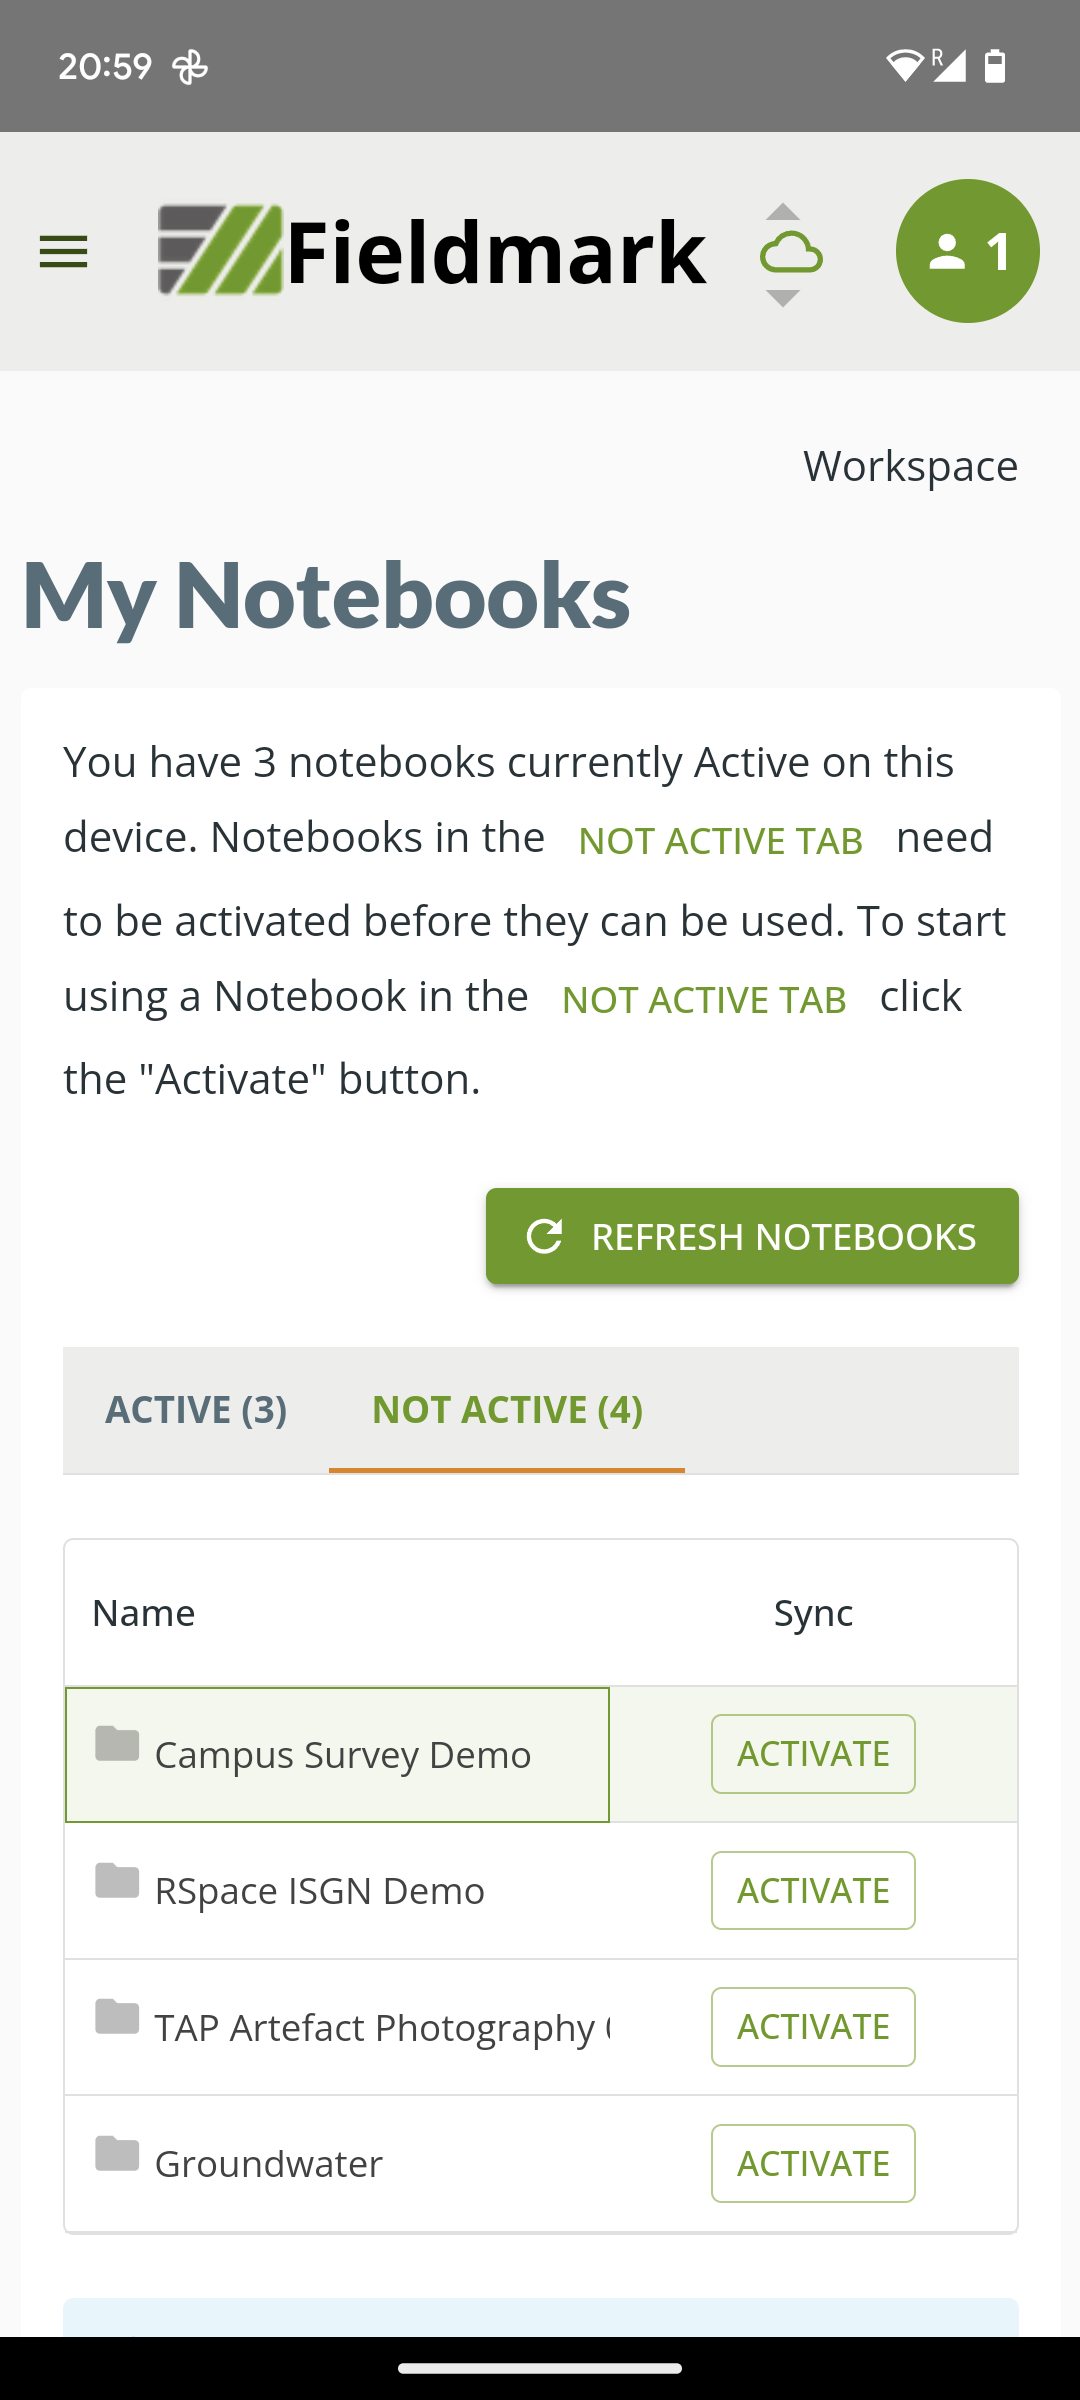
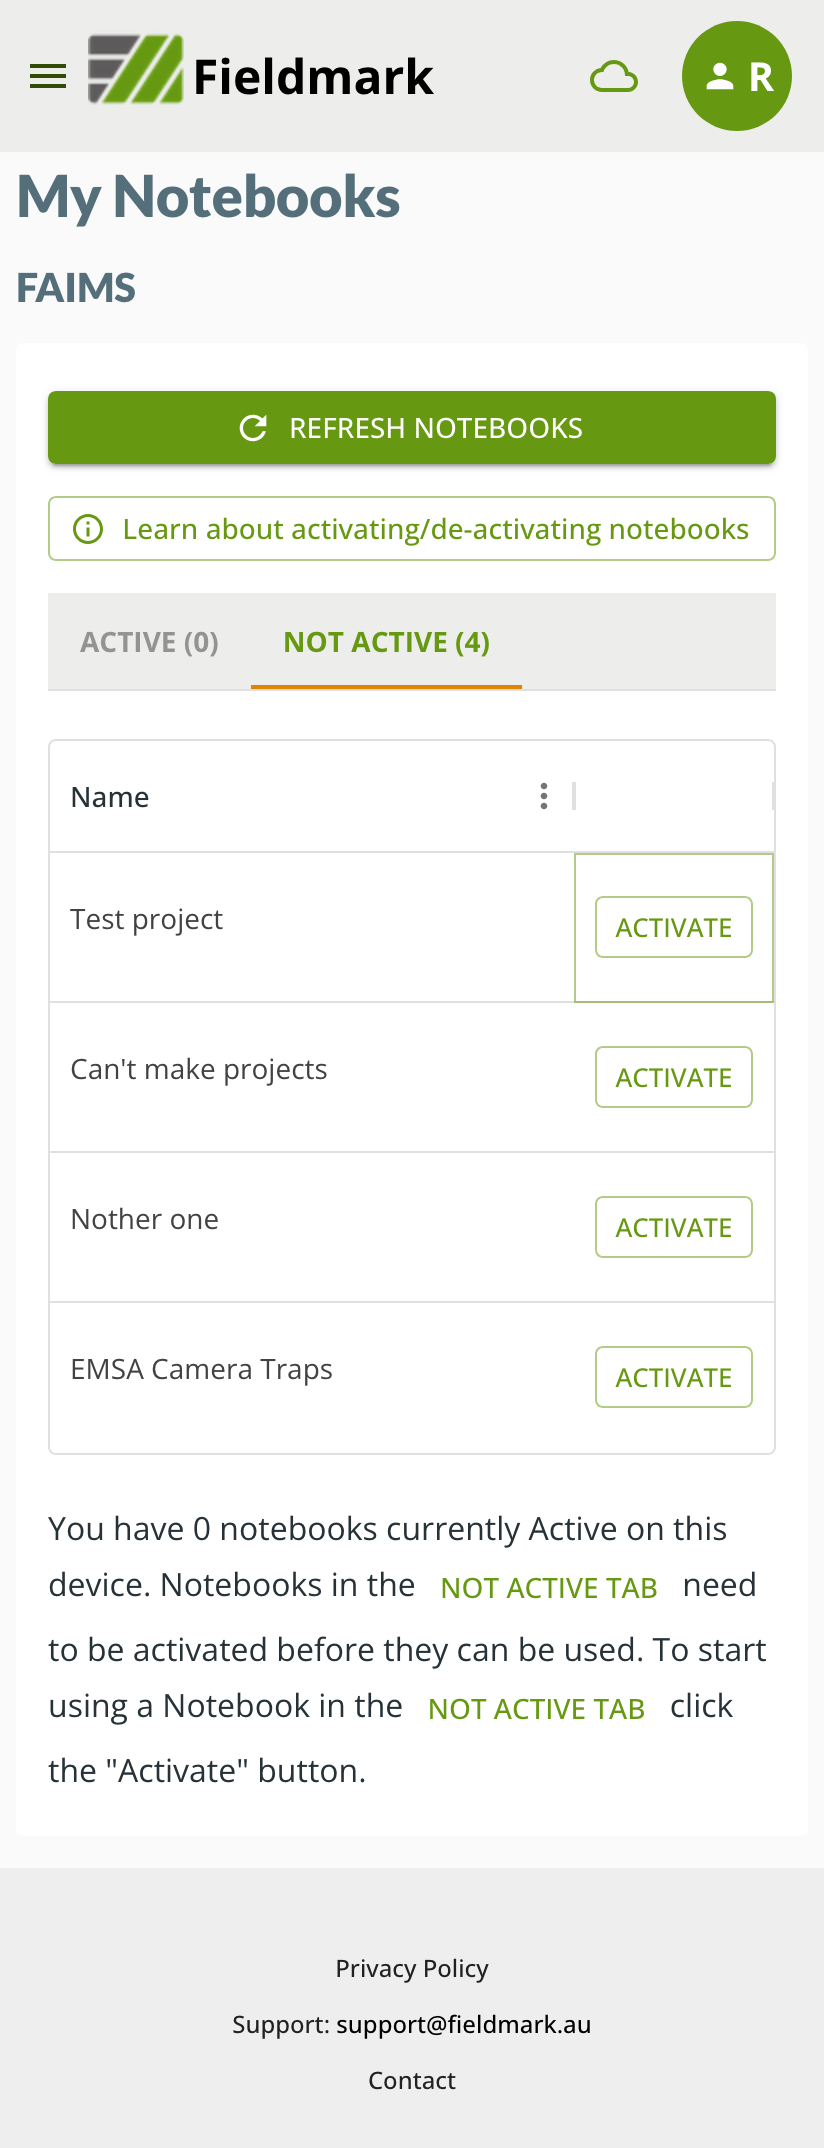
some updates to notebook usage docs updating screenshots

diff --git a/docs/user/data-collection/using-notebooks.md b/docs/user/data-collection/using-notebooks.md
@@ -19,13 +19,13 @@ The first page you see when you enter a notebook is the **Record List** screen.
 
 At the top of the page you will see buttons marked with a **+** sign that allow you to add new records of a given type: in this case it is **+ ADD NEW MAIN** since the form is called _Main_.
 
-````{note} 
+````{note}
 A notebook can contain many forms and there can be one or more of these _Add New_ buttons configured.  
 ````
 
 Below these you will see the **REFRESH RECORDS** button, this will force an update of the displayed list of records.
 
-````{note} 
+````{note}
 The list will update itself from time to time but sometimes it's useful to force a refresh
 ````
 
@@ -52,7 +52,7 @@ To create a new record from the **Record List**, tap or click the **+ ADD NEW MA
 
 When you create a new record or edit an existing one, you will see a form similar to the screenshot shown here where you can enter your data:
 
-```{screenshot} getting-started/record-form-mobile.png
+```{screenshot} getting-started/record-form-create.png
 :alt: Editing a {{Notebook}} record
 :align: left
 ```
@@ -60,13 +60,6 @@ When you create a new record or edit an existing one, you will see a form simila
 ````{note}
 The details of the form will depend on the configuration of the {{notebook}} you are using.
 ````
-
-There are usually two tabs in a record form:
-
-- **DATA** is where you will enter data, and
-- **INFO** provides some information about the record such as the name of the person who created it and the creation time.
-
-There is a third tab that can appear if there are conflicts between versions of this record (see [Conflict Resolutions](../todo.md)).
 
 How you fill our the form will vary will depend on the configuration of the {{notebook}} you are using.
 
@@ -76,14 +69,14 @@ There will usually be a short help text along with each field and in some cases,
 
 ## Parts of a Form
 
-The form you are filling may have more than one _section_, as shown in the screenshot here where it is showing section 1 of 2 sections.  You can navigate between sections using the 'Next' and 'Back' links.
+The form you are filling may have more than one _section_, as shown in the screenshot above where it is showing section 1 of 3 sections.  You can navigate between sections using the 'Next' and 'Back' links.
 
 ```{screenshot} getting-started/record-form-finish-buttons-mobile.png
 :alt: Finishing a {{Notebook}} record
 :align: right
 ```
 
-As you complete the form and scroll to the end of the section, you will see the 'Finish' buttons as shown in this screenshot.   Above this, you may see a warning as shown here if there are errors in the form - generally if you have missed entering some data.
+As you complete the form and scroll to the end of the section, you will see the 'Finish' button as shown in this screenshot.   Above this, you may see a warning as shown here if there are errors in the form - generally if you have missed entering some data.
 
 The error message should include a link that will scroll to the field that is missing.
 
@@ -91,13 +84,8 @@ If the error is in a different section of the form, it will link you to that sec
 
 If the form has errors, you are still able to finish your edits, all of the data that you have entered will be saved and you can come back later to fix the errors.
 
-The three buttons at the bottom of the form allow you to finalise the record you are creating or the edits you've made.
-
-The 'Finish and Close ...' button will finalise all of your changes and update the saved record. It will then return you to either the main record list or the parent record if this is a child record (see [Related Records](../field-types/relationship-fields/related-records.md)).
-
-The 'Finish and New ...' button will finalise the current record and start a new one of the same type. This is useful if you are entering a series of observations.
-
-The 'Cancel' button will cancel the current changes and return you to the record list or the parent record.  It will first check that you are sure that you want to lose the changes you have made.
+If you scroll to the top of the screen on any section you will also see a 'Finish' button.  Your data
+is saved as you enter it, the Finish buttons will return you to the record list.
 
 ## Annotations and Uncertainty
 

diff --git a/docs/user/data-collection/getting-started-data-collection.md b/docs/user/data-collection/getting-started-data-collection.md
@@ -28,14 +28,20 @@ When you open up the app for the first time you will see the **login** screen as
 :align: right
 ```
 
-From here you can login if you already have an account, or refer to your {{Notebook}} invitation and:
+Depending on the version of {{FAIMS}} that you are using, you may see the server selection option
+at the top of the screen or your server might be pre-configured.
+Server selection is used to connect the app to one of a number of {{FAIMS}} servers; you might see
+the main server and one or more enterprise servers.  Select the server for your organisation if
+that is configured.
+
+From here you can login if you already have an account, or refer to your {{notebook}} invitation and:
 
 - enter an **access code**, or
 - scan a **QR code**
 
 to **register** an account and get access to that {{Notebook}}.
 
-````{note} 
+````{note}
 If you already have an account on the {{FAIMS}} server, use the button to login instead of registering a new account.  Once you are logged in you will be given access to the {{Notebook}}. For more information, see [Login](login.md).
 ````
 
@@ -58,11 +64,11 @@ For more information see [Invitations](invitations.md).
 If you don't already have an account on the {{FAIMS}} server, you will be able to **register** for an account at this point with either:
 
 - your email and a password, or
-- a supported authentication provider (eg your Google account)
+- a supported authentication provider (eg. your Google account)
 
 At this point, registration just gives you access to this one {{notebook}} but you may be given access to others in the future.
 
-````{note} 
+````{note}
 You need an account on {{FAIMS}} to collect data so that the records that you create can be associated with you. The {{FAIMS}} server keeps minimal information about you: your name and email address. These are only used within the projects that you collect data for and will never be used for marketing or other purposes.
 ````
 
@@ -99,7 +105,7 @@ Once your {{notebook}} is activated, you can begin to create records and these w
 
 As each {{notebook}} is a customised data collection tool, instructions for entering data will differ for each user.
 
-See [Using your {{notebook}}](../todo.md) for more information.
+See [Using your {{notebook}}](using-notebooks.md) for more information.
 
 ## 5) Get more help
 
